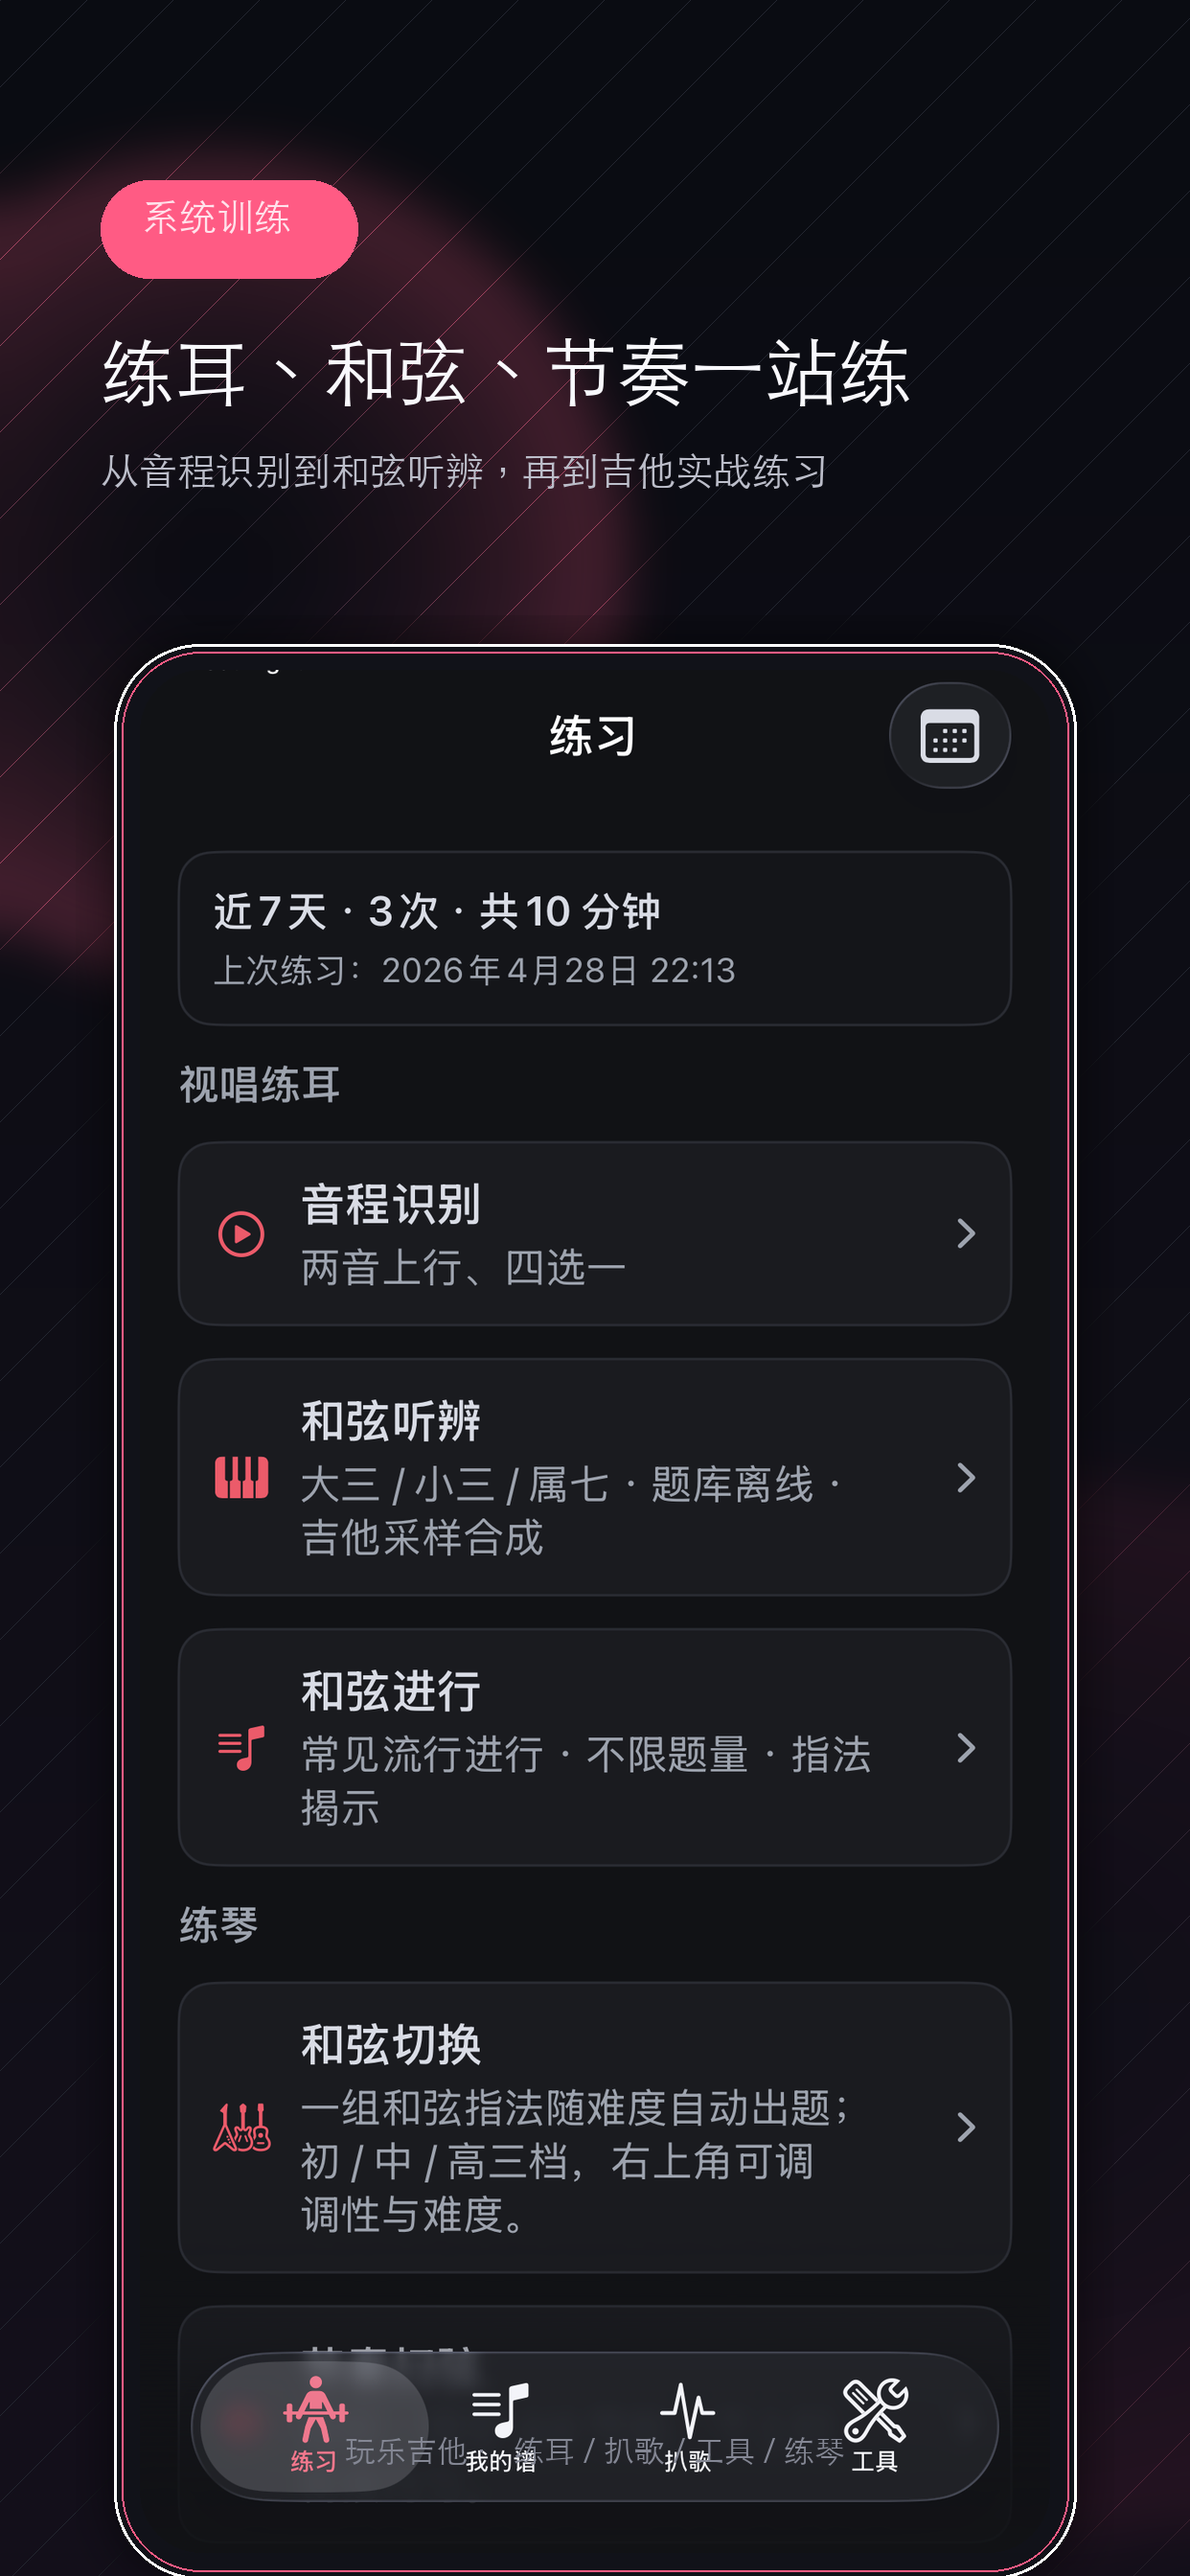
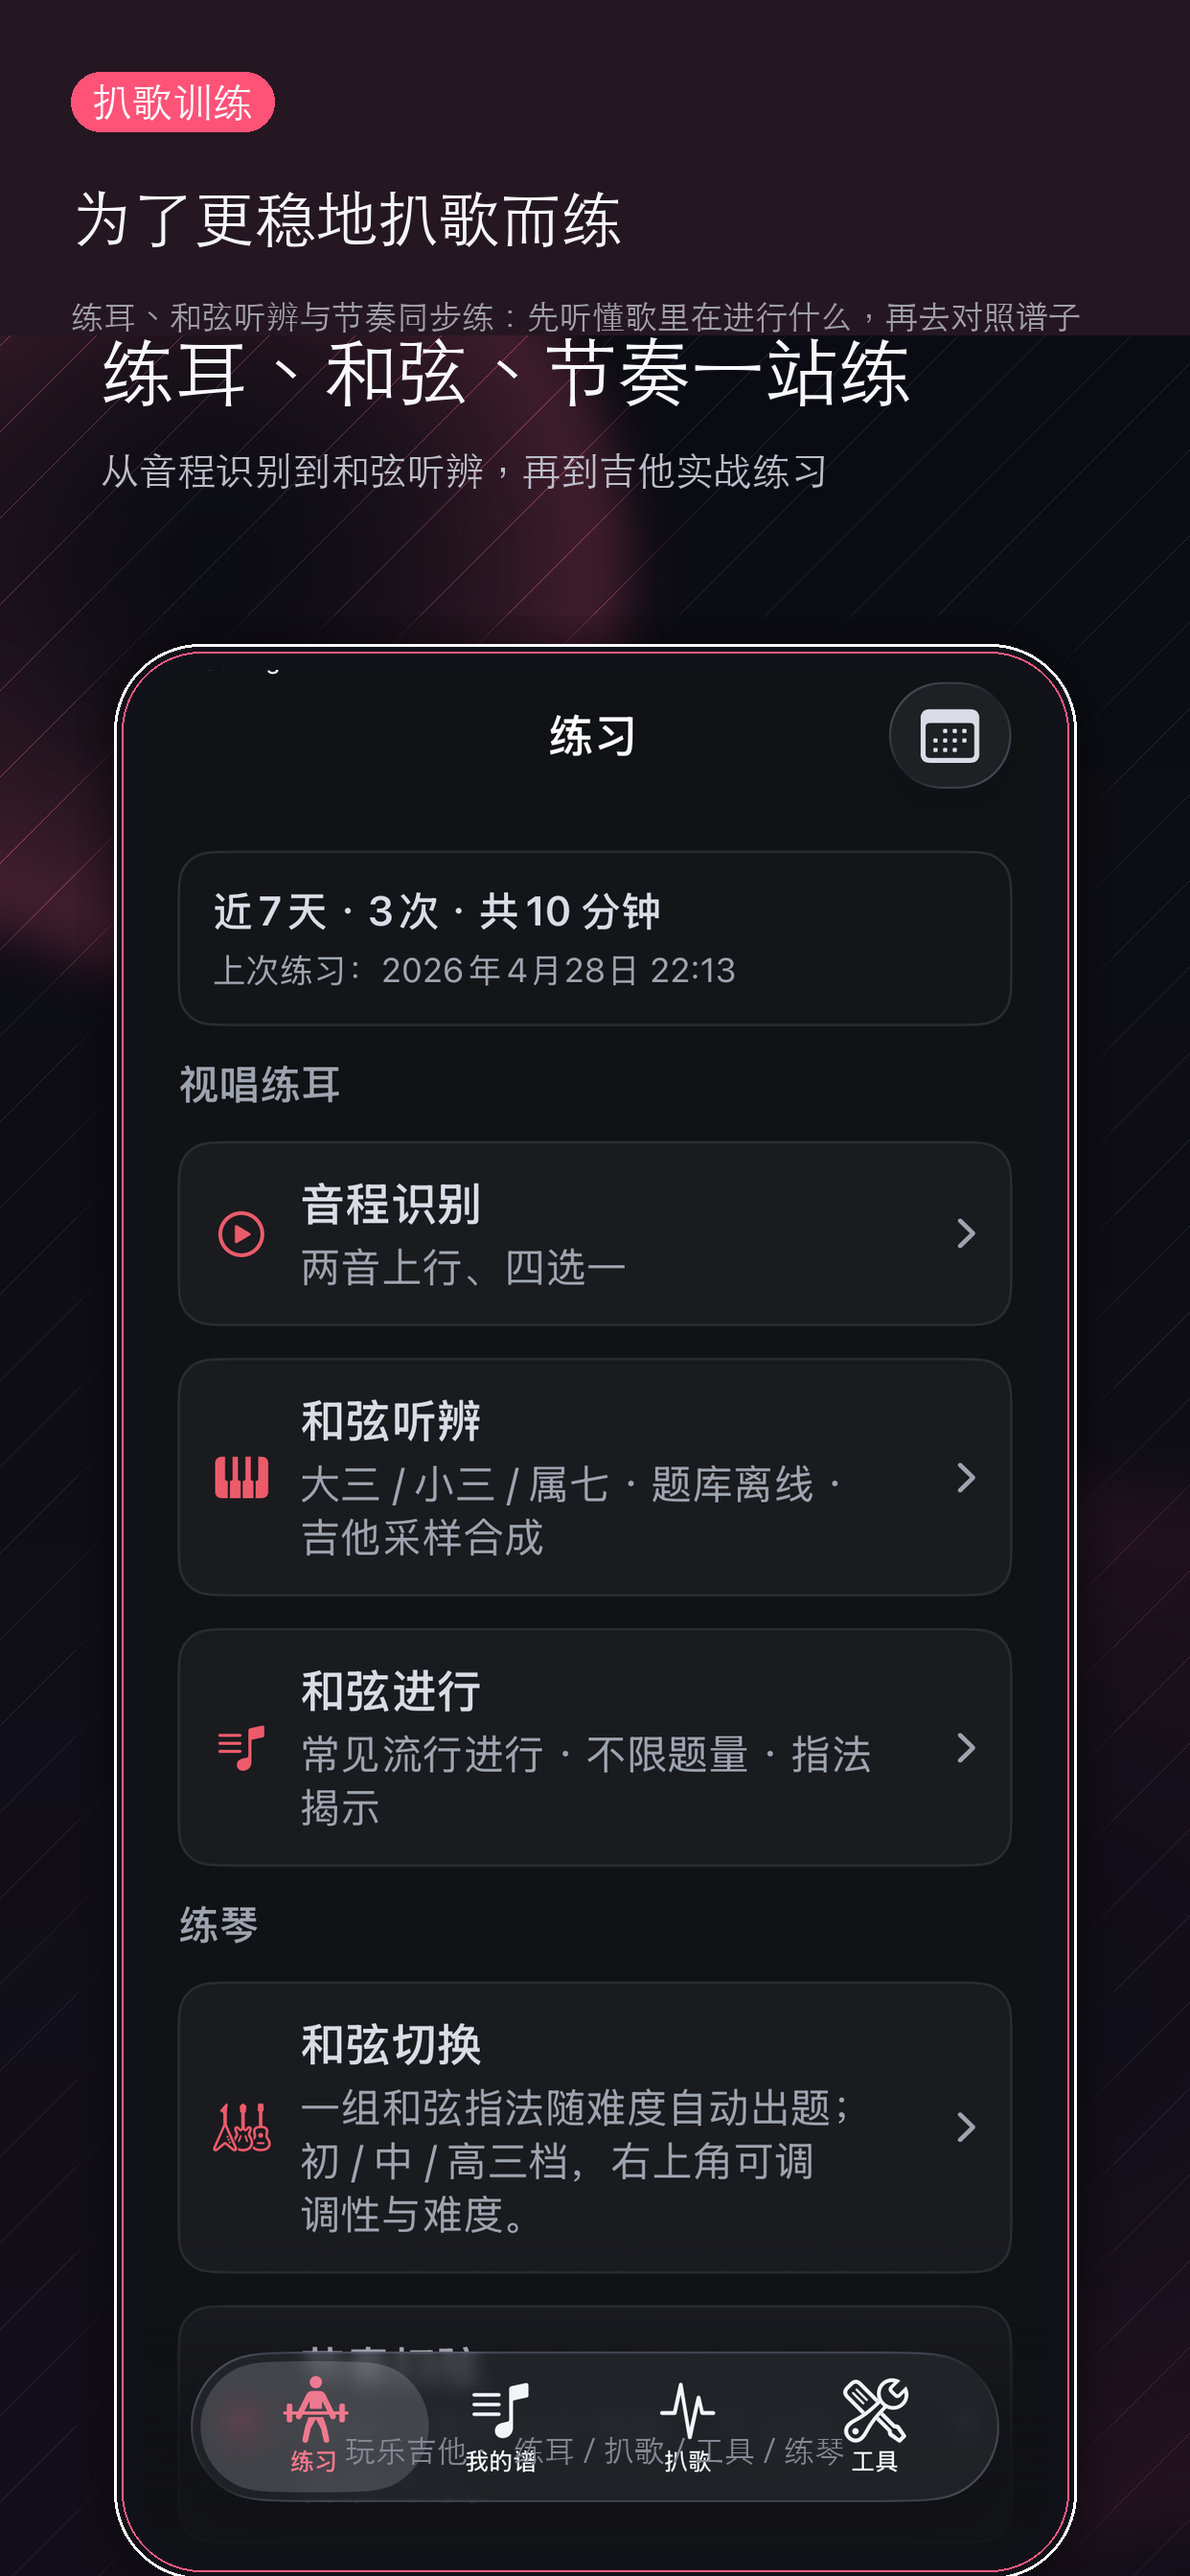
chore(appstore): 中文营销区重绘脚本与扒歌向截图
- 新增 scripts/render_appstore_screenshots_zh.py：按手机顶缘自动算清除高度，重绘顶部中文（扒歌三张主线 01/05/06，练习 02–04 贴扒歌训练）。
- 更新 iPhone 6.5 / 6.9 与 iPad 12.9 共 18 张 PNG 及联系表 JPEG。

Changed region(s): [[0.0, 0.0, 1.0, 0.1562]]

diff --git a/scripts/render_appstore_screenshots_zh.py b/scripts/render_appstore_screenshots_zh.py
@@ -1,0 +1,258 @@
+#!/usr/bin/env python3
+"""
+重绘 appstore_screenshots 各尺寸 PNG 顶部中文营销区（扒歌重点 + 练习服务扒歌）。
+依赖：Pillow（`pip install Pillow`）。
+
+用法（仓库根目录）：
+  python3 scripts/render_appstore_screenshots_zh.py
+"""
+
+from __future__ import annotations
+
+import textwrap
+from pathlib import Path
+
+from PIL import Image, ImageDraw, ImageFont
+
+REPO = Path(__file__).resolve().parents[1]
+SHOT = REPO / "appstore_screenshots"
+
+# 各设备模板里，中心线「误入」手机大留白前的扫描起点（避免字幕单行高亮被当成手机顶）。
+SCAN_Y0 = {
+    "iphone_6_5_1242x2688": 280,
+    "iphone_6_9_1290x2796": 520,
+    "ipad_12_9_2064x2752": 400,
+}
+
+MARGIN_BELOW_PHONE_TOP = 14
+
+DEVICE_FOLDERS = [
+    "iphone_6_5_1242x2688",
+    "iphone_6_9_1290x2796",
+    "ipad_12_9_2064x2752",
+]
+
+ACCENT = (255, 82, 119)
+TITLE_RGB = (245, 245, 247)
+SUBTITLE_RGB = (160, 160, 168)
+
+# 01 / 05 / 06 作为「扒歌」三条主线；02–04 练习统一贴「为扒歌训练」。
+CAPTIONS: dict[str, dict[str, str]] = {
+    "01_song_to_chords": {
+        "badge": "扒歌练习",
+        "title": "一首歌，扒成可练的和弦",
+        "subtitle": "导入音频/视频，看当前和弦、附近变化与参考谱，边听边练",
+    },
+    "02_training_modules": {
+        "badge": "扒歌训练",
+        "title": "为了更稳地扒歌而练",
+        "subtitle": "练耳、和弦听辨与节奏同步练：先听懂歌里在进行什么，再去对照谱子",
+    },
+    "03_chord_switching": {
+        "badge": "扒歌配套",
+        "title": "级数进行跟着练，扒歌更快对上和弦",
+        "subtitle": "指法图、节拍器与级数提示同屏，把常见 I–vi–ii–V 耳感练进手里",
+    },
+    "04_strumming": {
+        "badge": "扒歌节奏",
+        "title": "扫弦跟得住，扒歌不「晃拍」",
+        "subtitle": "上下扫与空拍标清楚，和节拍器同步，先把原曲律动练稳",
+    },
+    "05_tools": {
+        "badge": "扒歌工具箱",
+        "title": "调音 · 节拍 · 指板 · 和弦，扒歌一路用得到",
+        "subtitle": "扒歌前调弦、扒歌中打拍、忘记把位随时速查，少打断心流",
+    },
+    "06_tuner": {
+        "badge": "扒歌前准备",
+        "title": "先把音高调准，再对着原曲扒",
+        "subtitle": "麦克风拾音与 cents 表头，对齐录音音高，和弦识别更不容易偏",
+    },
+}
+
+
+def _load_font(size: int) -> ImageFont.FreeTypeFont:
+    candidates = [
+        "/System/Library/Fonts/STHeiti Light.ttc",
+        "/System/Library/Fonts/STHeiti Medium.ttc",
+        "/Library/Fonts/Arial Unicode.ttf",
+    ]
+    for path in candidates:
+        p = Path(path)
+        if p.is_file():
+            try:
+                return ImageFont.truetype(str(p), size=size)
+            except OSError:
+                continue
+    return ImageFont.load_default()
+
+
+def _avg_corner_bg(im: Image.Image) -> tuple[int, int, int]:
+    pix = im.load()
+    w, h = im.size
+    samples: list[tuple[int, int, int]] = []
+    for x, y in [(2, 2), (w - 3, 2), (2, h // 6), (w - 3, h // 6)]:
+        samples.append(pix[x, y][:3])
+    r = sum(s[0] for s in samples) // len(samples)
+    g = sum(s[1] for s in samples) // len(samples)
+    b = sum(s[2] for s in samples) // len(samples)
+    return (r, g, b)
+
+
+def _first_phone_row_y(im: Image.Image, y_start: int) -> int:
+    """取横屏中线附近，自上而下第一条「接近纯白」的扫描行，作为手机内容区上缘。"""
+    w, h = im.size
+    xc = w // 2
+    y_start = max(0, min(y_start, h - 8))
+    for y in range(y_start, int(h * 0.86), 1):
+        r, g, b = im.getpixel((xc, y))
+        if r + g + b > 650:
+            return y
+    return int(h * 0.38)
+
+
+def _compute_fill_bottom(im: Image.Image, folder: str) -> int:
+    y0 = SCAN_Y0.get(folder, 400)
+    phone_y = _first_phone_row_y(im, y0)
+    fb = phone_y - MARGIN_BELOW_PHONE_TOP
+    lo = int(im.height * 0.09)
+    hi = int(im.height * 0.62)
+    return max(lo, min(fb, hi))
+
+
+def _text_width(draw: ImageDraw.ImageDraw, text: str, font: ImageFont.FreeTypeFont) -> int:
+    if hasattr(draw, "textlength"):
+        return int(draw.textlength(text, font=font))
+    bbox = draw.textbbox((0, 0), text, font=font)
+    return bbox[2] - bbox[0]
+
+
+def _wrap_to_width(
+    draw: ImageDraw.ImageDraw,
+    text: str,
+    font: ImageFont.FreeTypeFont,
+    max_width: int,
+) -> list[str]:
+    lines: list[str] = []
+    for paragraph in text.split("\n"):
+        if not paragraph.strip():
+            continue
+        for line in textwrap.wrap(
+            paragraph,
+            width=60,
+            break_long_words=False,
+            break_on_hyphens=False,
+        ):
+            while line and _text_width(draw, line, font) > max_width:
+                cut = len(line) - 1
+                while cut > 0 and _text_width(draw, line[:cut], font) > max_width:
+                    cut -= 1
+                if cut <= 0:
+                    break
+                lines.append(line[:cut])
+                line = line[cut:].lstrip()
+            if line:
+                lines.append(line)
+    return lines
+
+
+def _draw_badge(
+    draw: ImageDraw.ImageDraw,
+    xy: tuple[int, int],
+    text: str,
+    font: ImageFont.FreeTypeFont,
+    pad_x: int = 22,
+    pad_y: int = 10,
+) -> int:
+    tw = _text_width(draw, text, font)
+    fs = int(getattr(font, "size", 28))
+    h = fs + pad_y * 2
+    w = tw + pad_x * 2
+    x0, y0 = xy
+    rect = (x0, y0, x0 + w, y0 + h)
+    r = h // 2
+    draw.rounded_rectangle(rect, radius=r, fill=ACCENT)
+    draw.text((x0 + pad_x, y0 + pad_y), text, font=font, fill=(255, 255, 255))
+    return y0 + h
+
+
+def render_one(path: Path) -> None:
+    folder = path.parent.name
+    if folder not in SCAN_Y0:
+        return
+    stem = path.stem
+    if stem not in CAPTIONS:
+        return
+    cap = CAPTIONS[stem]
+
+    im = Image.open(path).convert("RGB")
+    w, h = im.size
+    fill_bottom = _compute_fill_bottom(im, folder)
+    bg = _avg_corner_bg(im)
+    draw = ImageDraw.Draw(im)
+    draw.rectangle((0, 0, w, fill_bottom), fill=bg)
+
+    pad_x = int(w * 0.06)
+    max_text_w = w - 2 * pad_x
+
+    badge_font = _load_font(max(26, int(w * 0.034)))
+    title_font = _load_font(max(34, int(w * 0.052)))
+    sub_font = _load_font(max(24, int(w * 0.028)))
+
+    y = int(h * 0.028)
+    y = _draw_badge(draw, (pad_x, y), cap["badge"], badge_font) + int(h * 0.022)
+
+    title_lines = _wrap_to_width(draw, cap["title"], title_font, max_text_w)
+    for line in title_lines:
+        draw.text((pad_x, y), line, font=title_font, fill=TITLE_RGB)
+        y += int(getattr(title_font, "size", 40)) + int(h * 0.012)
+
+    y += int(h * 0.008)
+    sub_lines = _wrap_to_width(draw, cap["subtitle"], sub_font, max_text_w)
+    for line in sub_lines:
+        draw.text((pad_x, y), line, font=sub_font, fill=SUBTITLE_RGB)
+        y += int(getattr(sub_font, "size", 26)) + int(h * 0.008)
+
+    im.save(path, format="PNG", optimize=True)
+
+
+def render_contact_sheet(device_folder: str, out_name: str, cols: int = 2) -> None:
+    folder = SHOT / device_folder
+    paths = sorted(folder.glob("*.png"))
+    if not paths:
+        return
+    ims = [Image.open(p).convert("RGB") for p in paths]
+    n = len(ims)
+    rows = (n + cols - 1) // cols
+    mw = max(im.width for im in ims)
+    mh = max(im.height for im in ims)
+    gap = 24
+    sheet_w = cols * mw + (cols + 1) * gap
+    sheet_h = rows * mh + (rows + 1) * gap
+    sheet = Image.new("RGB", (sheet_w, sheet_h), (12, 12, 16))
+    for i, im in enumerate(ims):
+        r, c = divmod(i, cols)
+        x = gap + c * (mw + gap) + (mw - im.width) // 2
+        y = gap + r * (mh + gap) + (mh - im.height) // 2
+        sheet.paste(im, (x, y))
+    out = SHOT / out_name
+    sheet.save(out, format="JPEG", quality=88, optimize=True)
+
+
+def main() -> None:
+    for folder in DEVICE_FOLDERS:
+        d = SHOT / folder
+        if not d.is_dir():
+            continue
+        for png in sorted(d.glob("*.png")):
+            render_one(png)
+            print("updated", png.relative_to(REPO))
+
+    render_contact_sheet("iphone_6_5_1242x2688", "contact_sheet_iphone_6_5.jpg")
+    render_contact_sheet("iphone_6_9_1290x2796", "contact_sheet_iphone_6_9.jpg")
+    render_contact_sheet("ipad_12_9_2064x2752", "contact_sheet_ipad_12_9.jpg")
+    print("contact sheets written")
+
+
+if __name__ == "__main__":
+    main()
